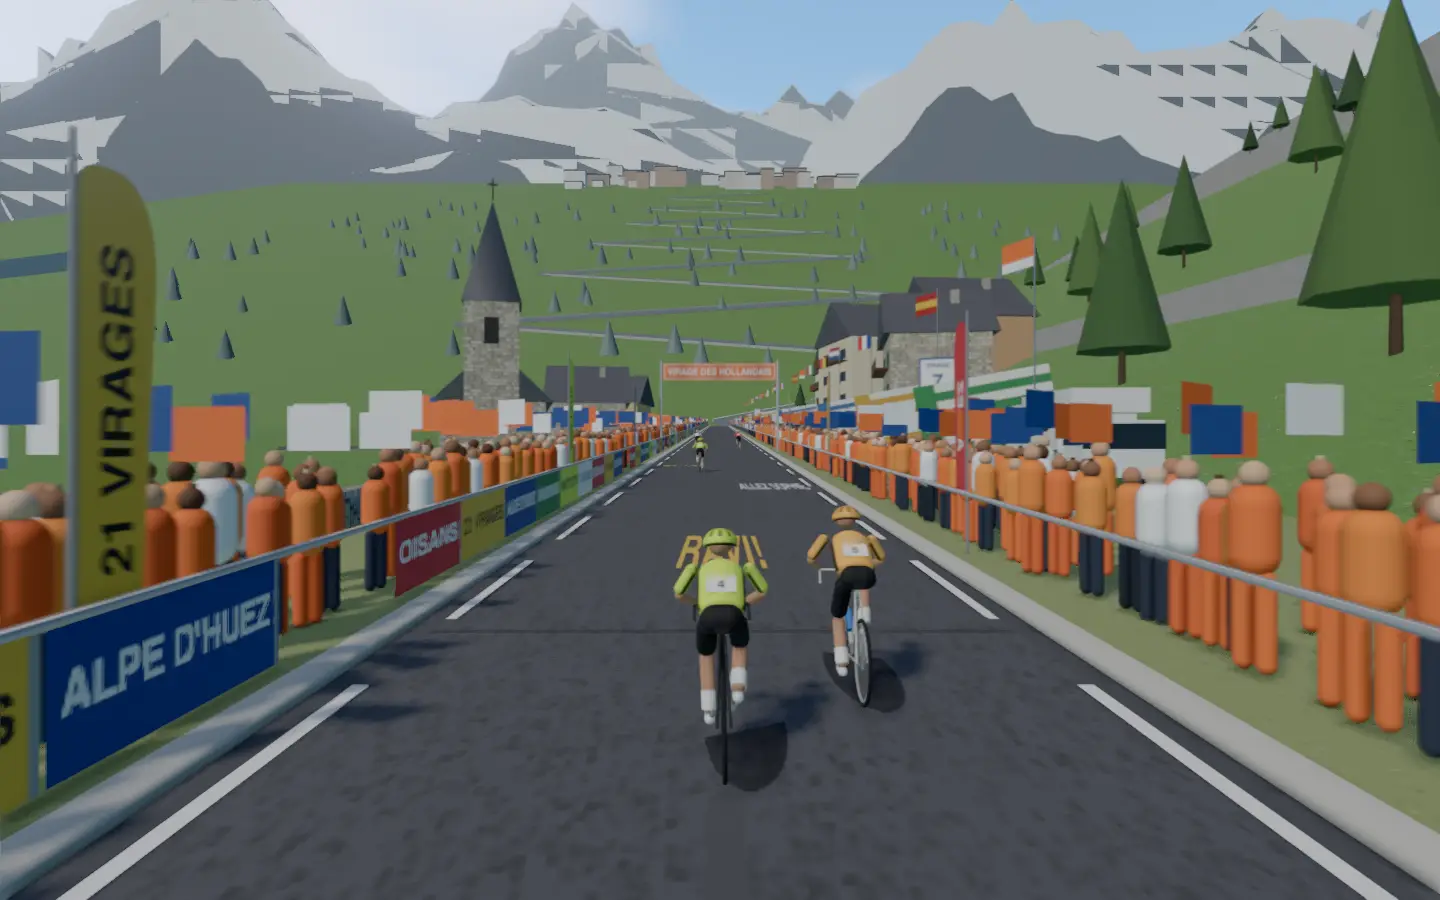
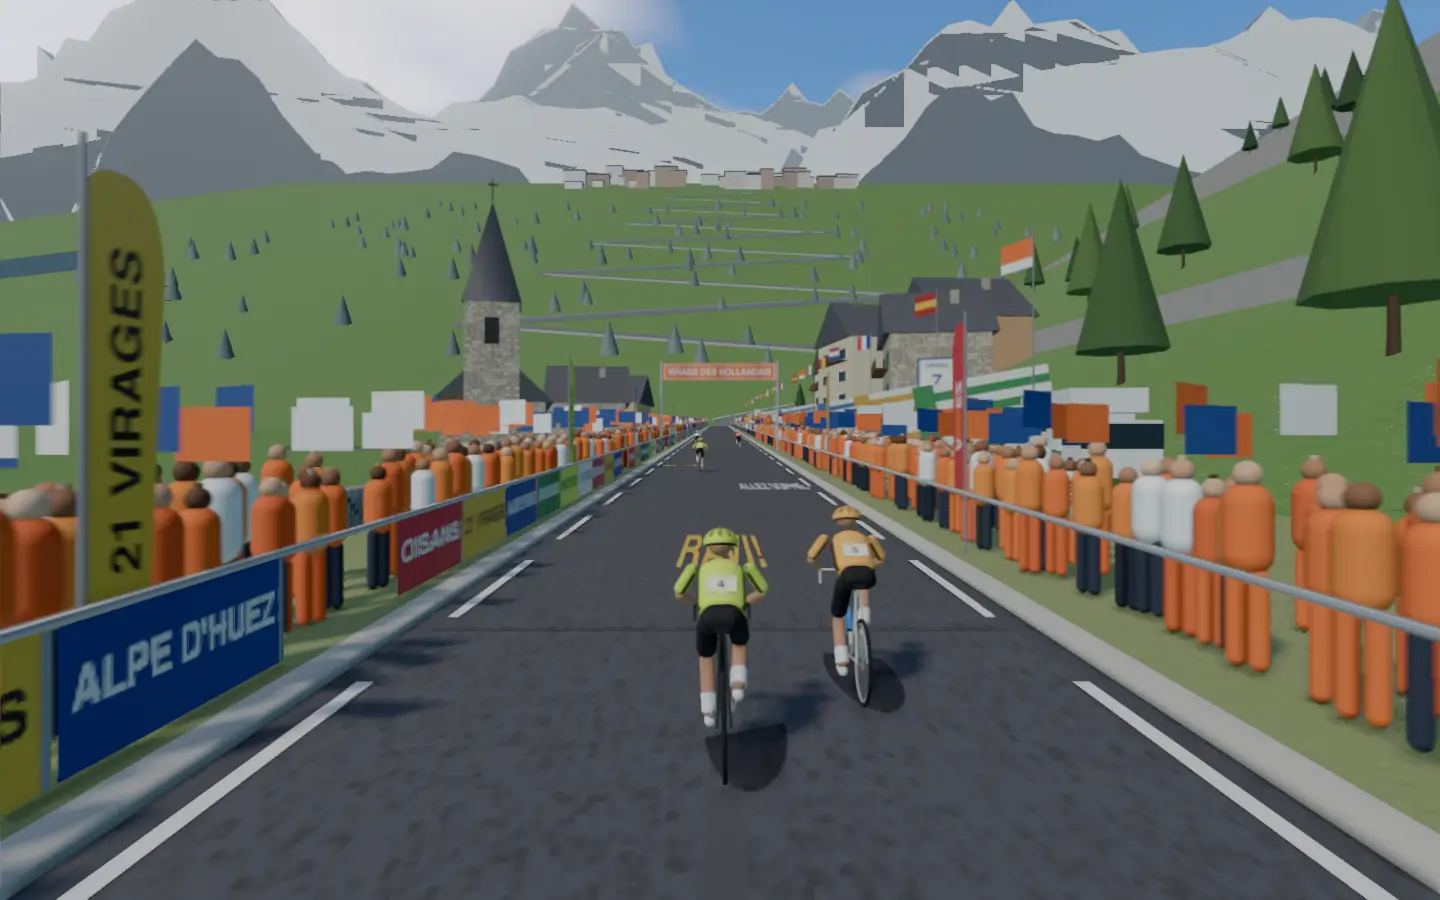
Clear the Alpe's sky to a deep altitude blue

diff --git a/frontend/projects/wattzup/src/app/core/world-renderer.ts b/frontend/projects/wattzup/src/app/core/world-renderer.ts
@@ -712,8 +712,9 @@ const LOOKS: Record<WorldId, Look> = {
     light: { sun: 1.6, fill: 1.8, colour: 0xeef0f2 },
     fogRange: [400, 4200],
   },
-  // A blazing July afternoon on the Alpe: a deep blue sky, the sun high and a little behind the
-  // rider's left shoulder, sharp shadows, and the peaks crisp in clear mountain air.
+  // A blazing July afternoon on the Alpe: the clear, thin air of altitude scatters little, so the
+  // sky stays a deep blue down to the peaks; the sun high and a little behind the rider's left
+  // shoulder, sharp shadows.
   alpe: {
     sky: 0x5f9fe0,
     fog: 0xc9d8ea,
@@ -722,8 +723,8 @@ const LOOKS: Record<WorldId, Look> = {
     sun: 48,
     wet: false,
     haze: false,
-    turbidity: 2.2,
-    rayleigh: 1.5,
+    turbidity: 1.1,
+    rayleigh: 0.7,
     azimuth: -140,
     light: { sun: 3.3, fill: 1.2, colour: 0xfff4e0 },
     fogRange: [260, 4200],

diff --git a/docs/class-worlds.md b/docs/class-worlds.md
@@ -34,7 +34,7 @@ Every class in `frontend/public/classes.json`, with its World Ride scene. Render
 | 28 | Easy Riding | Napa Vineyards | 80% | Rows of vines climb the golden hills either side of the valley road on a warm Californian afternoon, past oak-shaded stone wineries and their tasting terraces toward a mission-style winery with a bell tower on a knoll ahead. The three-minute warm-up rolls between the vine rows, the short vineyard rises climb past the stone wineries under the oaks, and the two-minute pushes ride on toward the bell tower. |
 | 29 | Quick HIIT Sprint Workout | Las Vegas Strip | 70% | Neon casinos and dancing fountains after midnight; sprint from light to light down the boulevard. |
 | 30 | Super High Cadence Sprints | Shibuya Crossing (concept) |  | Tokyo in neon rain; spin fast through the scramble beneath towering video screens. |
-| 31 | Elevate Your Climbing Power | Alpe d'Huez | 76% | Twenty-one numbered hairpins stack up the mountainside above Bourg-d'Oisans on a blazing July afternoon, the tarmac covered in painted names and fans and camper vans packed onto every bend under the snowy peaks of the Grandes Rousses. The two-minute warm-up rolls out of the valley, each one-minute attack kicks round a hairpin through the orange roar of Dutch Corner by the church of Huez, and the two-minute blocks grind up the steep ramps toward the ski station at the top. |
+| 31 | Elevate Your Climbing Power | Alpe d'Huez | 77% | Twenty-one numbered hairpins stack up the mountainside above Bourg-d'Oisans on a blazing July afternoon, the tarmac covered in painted names and fans and camper vans packed onto every bend under the snowy peaks of the Grandes Rousses. The two-minute warm-up rolls out of the valley, each one-minute attack kicks round a hairpin through the orange roar of Dutch Corner by the church of Huez, and the two-minute blocks grind up the steep ramps toward the ski station at the top. |
 | 32 | High Power Tempo With Short Sprints | Route 66 Desert | 72% | Arizona's open highway, red mesas and chrome diners; hold tempo, then sprint for each roadside sign. |
 | 33 | Spicy Maximum Minute Efforts | Día de Muertos Parade (concept) |  | Marigolds, sugar skulls and giant skeletons along Mexico City's Paseo de la Reforma. |
 | 34 | Short, Sharp & Hard Efforts | Montmartre (concept) |  | Paris cobbles winding up to Sacré-Cœur; short, sharp kicks past cafés and painters. |
